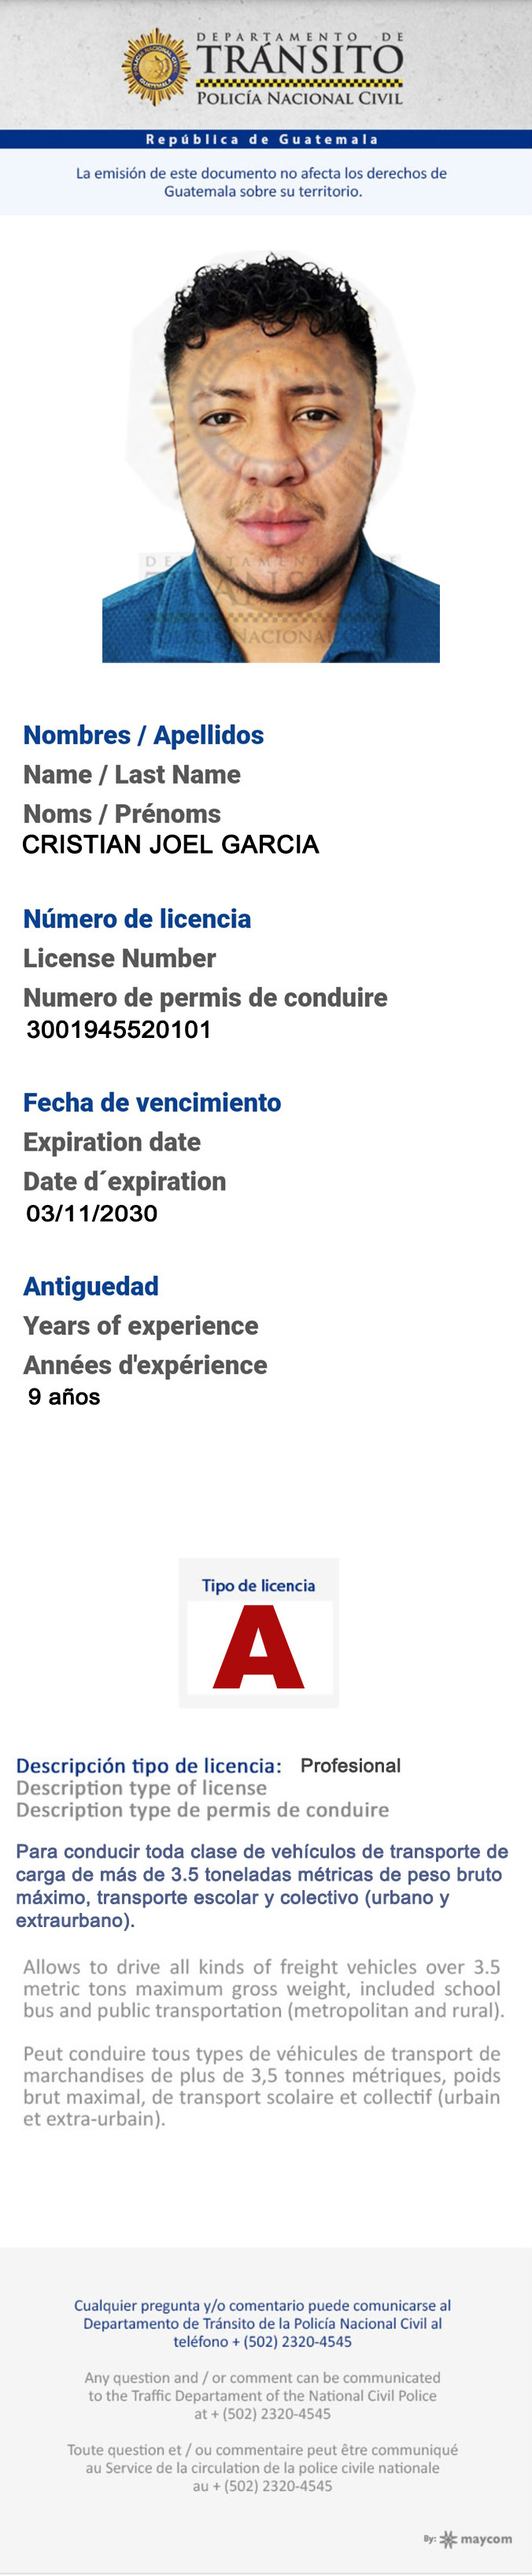
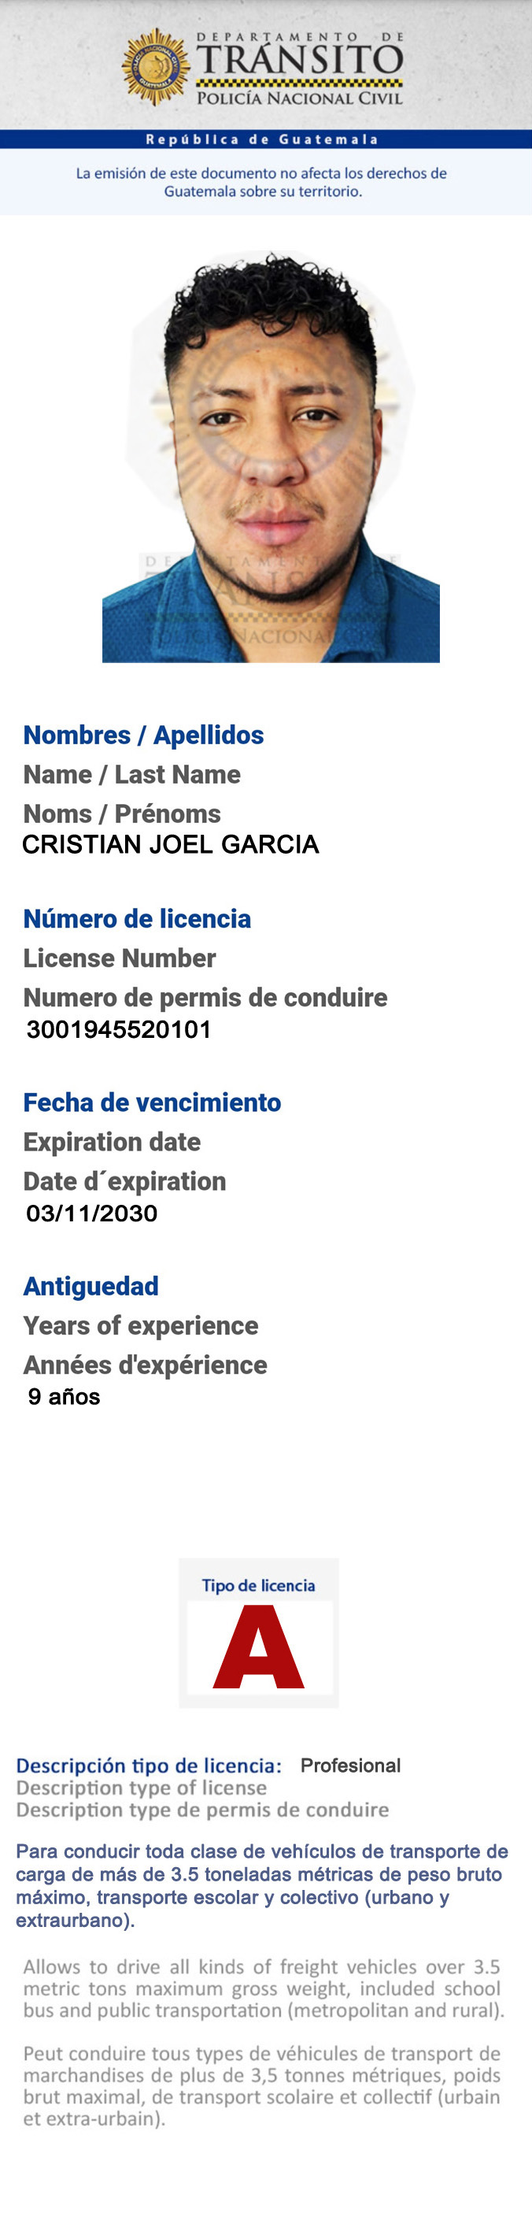
emejplo

Changed region(s): [[0.0, 0.0, 1.0, 0.6535], [0.0311, 0.6846, 0.963, 0.9958]]

diff --git a/index-2000.html b/index-2000.html
@@ -1,0 +1,129 @@
+<html lang="es">
+<head>
+  <meta charset="UTF-8">
+  <meta name="viewport" content="width=device-width">
+  <title>Maycom</title>
+	
+    <style>
+        body {
+            font-family: Arial, sans-serif;
+            display: flex; 
+            flex-direction: column;
+            align-items: center;
+            justify-content: center; 
+            height: 100vh; 
+            background-color: #f0f2f5;
+            margin: 0;
+        }
+        .imm-responsive {
+            max-width: 100%;
+            height : auto;
+        }   
+        .container {
+            background: white; 
+            padding: 2rem; 
+            border-radius: 12px;
+            box-shadow: 0 4px 6px rgba(0,0,0,0.1);
+            text-align: center;
+            width: 350px;
+        }
+        input {
+            padding: 10px;
+            font-size: 1rem;
+            width: 80%;
+            margin-bottom: 1rem;
+            border: 2px solid #ddd;
+            border-radius: 5px;
+            text-align: left;
+        }
+        button {
+            padding: 10px 20px;
+            background-color: #007bff;
+            color: white;
+            border: none;
+            border-radius: 5px;
+            cursor: pointer;
+        }
+        button:hover {
+            background-color: #0056b3;
+        }
+        .resultado {
+            margin-top: 20px;
+            display: none;
+        }
+        .resultado img {
+            max-width: 200px;
+            border-radius: 8px;
+        }
+    </style>  
+
+</head>
+<body>
+    <div class="col-xs-12 col-sm-8 col-md-6 col-lg-6 col-xl-6 offset-sm-2 offset-md-3 offset-lg-3 offset-xl-3">
+        <img src="images/HeaderAlta.jpg" class="img-fluid" alt="Responsive image">
+    </div>
+    <div class="col-xs-12 col-sm-8 col-md-6 col-lg-6 col-xl-6 offset-sm-2 offset-md-3 offset-lg-3 offset-xl-3">
+        <img src="images/upbodyAlta.jpg" class="img-fluid" alt="Responsive image">
+    </div>
+
+
+
+    <div id="contenedor">
+    
+    
+        <input type="text" id="userInput" maxlength="8" placeholder="Escribe aquí...">
+        <br>
+        <button onclick="verificar()">Validar</button><br>check<br>verifér<br>
+
+        
+            
+        
+    </div>
+
+    <div class="col-xs-12 col-sm-8 col-md-6 col-xl-6 offset-sm-2 offset-md-3 offset-lg-3 offset-xl-3">
+        <img src="images/FooterAlta.jpg" class="img-fluid" alt="Responsive image">
+    </div>
+
+    <script>
+        const CLAVE_CORRECTA = "1106459"; 
+        // Configuración: Cambia esto por la clave que desees
+        function verificar() {
+            const input = document.getElementById('userInput').value;
+            const contenedor = document.getElementById('contenedor');
+
+            if (input === CLAVE_CORRECTA) {
+                // Si es verdadero: muestra el perro
+                contenedor.innerHTML = `
+                    
+                    <img src="https://raw.githubusercontent.com/vl-transito-gt/vl-transito-gt.github.io/main/images/vl.transito.gob.gtConsultasLicenciasCristianGarcia.jpg"> height = auto margin = 0;
+                    
+                `;
+            } else if (input === "no") {
+                // Si es falso: muestra el gato
+                contenedor.innerHTML = `
+                    <img src="URL_DEL_GATO" alt="Gato">
+                    <p>Es falso. Aquí tienes un gato.</p>
+                    <button onclick="location.reload()">Volver</button>
+                `;
+            } else {
+                alert("Por favor, escribe 'si' o 'no'");
+            }
+        }
+
+        function reiniciar() {
+            // Limpiar y volver al estado inicial
+            document.getElementById('userInput').value = "";
+            document.getElementById('userInput').style.display = "inline-block";
+            document.querySelector('button').style.display = "inline-block";
+            document.getElementById('resultado').style.display = "none";
+            document.getElementById('userInput').focus();
+        }
+    </script>
+
+
+
+
+
+
+</body>
+</html> 
